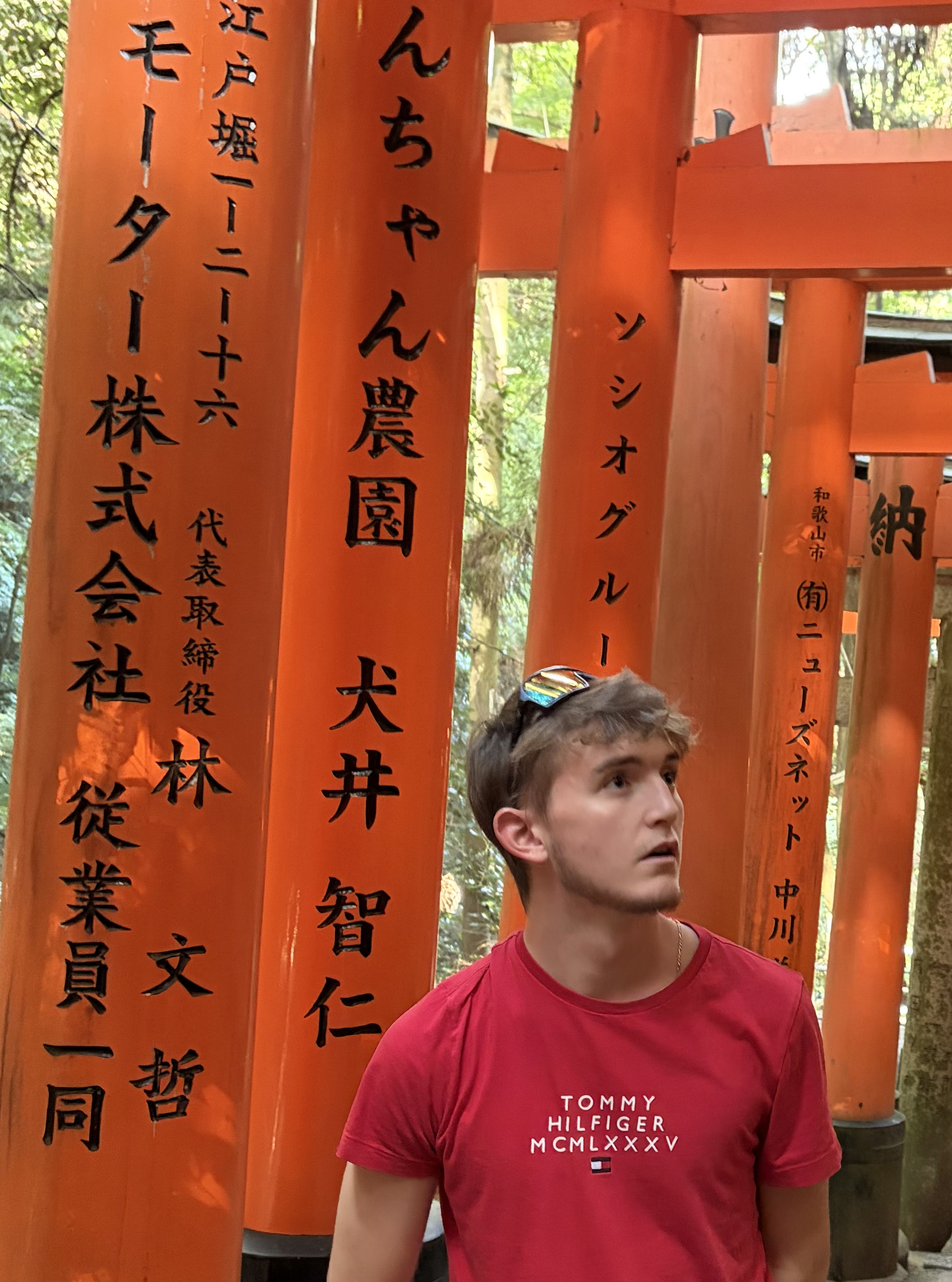
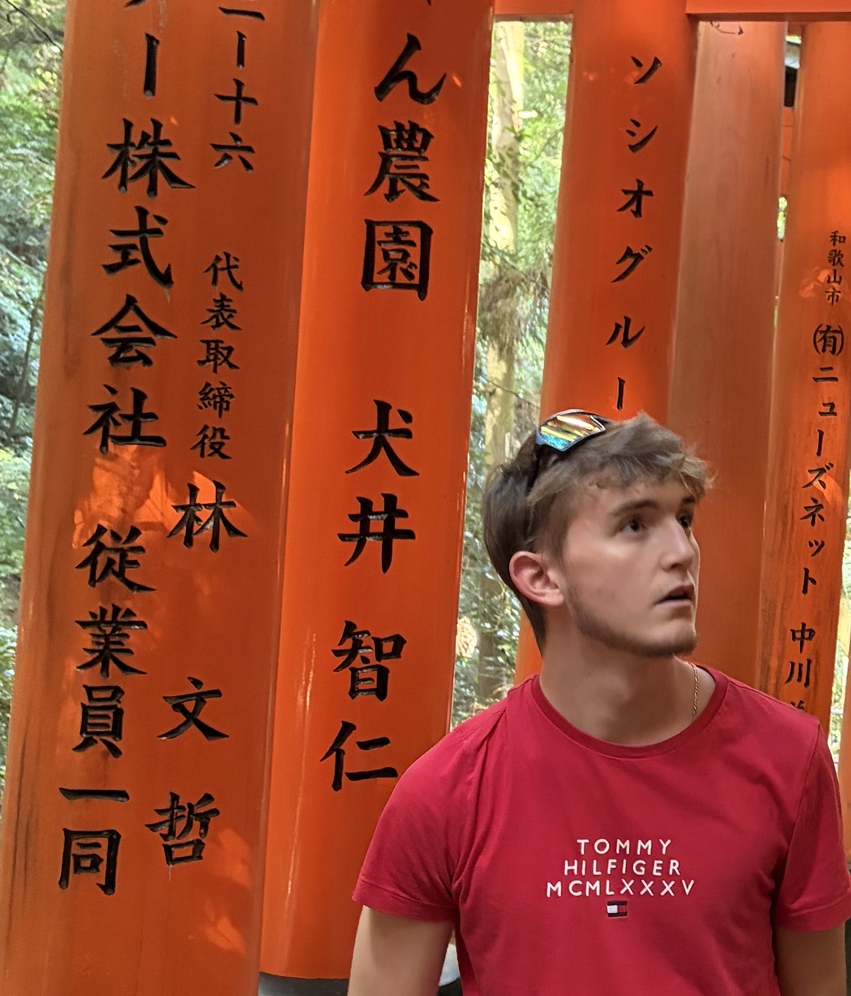
better scroll on macbook and change PDP

diff --git a/js/showroom.js b/js/showroom.js
@@ -393,7 +393,7 @@ const nearestStep = (y) => tops.reduce((best, t, k) => (Math.abs(t - y) < Math.a
 const inShowroom = (y = scroller.y()) => y < tops[LAST] - 2;
 
 // Pagination à la molette  : un cran = une étape, verrouillé pendant l'animation
-const pager = { locked: false, timer: null, hAccum: 0 };
+const pager = { locked: false, timer: null, hAccum: 0, hLocked: false, hTimer: null, hLast: 0, hFiredAt: 0 };
 const goStep = (k) => {
   k = clamp(k, 0, LAST);
   pager.locked = true;
@@ -413,10 +413,19 @@ window.addEventListener('wheel', (e) => {
   const horizontal = Math.abs(e.deltaX) > Math.abs(e.deltaY) * 1.2;
 
   // Glissement horizontal au trackpad = changer de projet (carrousel ou spirale)
-  if (horizontal && inShowroom(y) && step !== 1) {
+  if (horizontal && inShowroom(y)) {
     e.preventDefault(); e.stopImmediatePropagation();
+    // Un swipe = un seul projet : on ignore la suite du geste (et l'inertie macOS)
+    // jusqu'à ce que les événements wheel cessent pendant 180 ms…
+    const mag = Math.abs(e.deltaX), now = performance.now();
+    clearTimeout(pager.hTimer);
+    pager.hTimer = setTimeout(() => { pager.hLocked = false; pager.hAccum = 0; pager.hLast = 0; }, 180);
+    // …ou qu'un nouveau swipe démarre : l'inertie ne fait que décroître, un nouveau geste fait remonter le delta
+    if (pager.hLocked && now - pager.hFiredAt > 200 && mag > 10 && mag > pager.hLast * 1.6) { pager.hLocked = false; pager.hAccum = 0; }
+    pager.hLast = mag;
+    if (pager.hLocked) return;
     pager.hAccum += e.deltaX;
-    if (Math.abs(pager.hAccum) > 60) { pager.hAccum > 0 ? carousel.next() : carousel.prev(); pager.hAccum = 0; }
+    if (Math.abs(pager.hAccum) > 30) { pager.hAccum > 0 ? carousel.next() : carousel.prev(); pager.hAccum = 0; pager.hLocked = true; pager.hFiredAt = now; }
     return;
   }
   // Molette verticale dans le showroom (ou en remontant tout en haut de la grille) = étape suivante / précédente
@@ -601,7 +610,7 @@ window.addEventListener('pointermove', (e) => {
   pointer.y = (e.clientY / window.innerHeight) * 2 - 1;
 }, { passive: true });
 
-const drag = { active: false, startX: 0, startY: 0, lastX: 0, lastT: 0, moved: false, axis: 0 };
+const drag = { active: false, startX: 0, startY: 0, lastX: 0, lastT: 0, moved: false, axis: 0, startSlot: 0 };
 const pxPerSlot = () => Math.max(220, window.innerWidth * 0.3);
 
 canvas.addEventListener('pointerdown', (e) => {
@@ -609,6 +618,7 @@ canvas.addEventListener('pointerdown', (e) => {
   drag.active = true; drag.moved = false; drag.axis = 0;
   drag.startX = drag.lastX = e.clientX; drag.startY = e.clientY; drag.lastT = performance.now();
   carousel.velocity = 0;
+  drag.startSlot = Math.round(carousel.target);
 });
 window.addEventListener('pointermove', (e) => {
   if (!drag.active) return;
@@ -621,7 +631,8 @@ window.addEventListener('pointermove', (e) => {
   if (drag.axis !== 1) return;
   const now = performance.now();
   const ds = -dx / pxPerSlot();
-  carousel.pos += ds; carousel.target = carousel.pos;
+  // le doigt ne peut pas entraîner le carrousel au-delà du projet voisin
+  carousel.pos = clamp(carousel.pos + ds, drag.startSlot - 1, drag.startSlot + 1); carousel.target = carousel.pos;
   carousel.velocity = ds / Math.max(1, now - drag.lastT) * 16; // slots par image
   drag.lastX = e.clientX; drag.lastT = now;
 });
@@ -629,8 +640,10 @@ const endDrag = (e) => {
   if (!drag.active) return;
   drag.active = false;
   if (carousel.dragging) {
-    // inertie : on prolonge le geste puis on s'aimante sur le projet le plus proche
-    carousel.target = Math.round(carousel.pos + clamp(carousel.velocity * 10, -2.5, 2.5));
+    // un glissement = un projet max : un geste vif ou assez long passe au voisin, sinon on revient
+    const moved = carousel.pos - drag.startSlot;
+    const dir = Math.abs(carousel.velocity) > 0.02 ? Math.sign(carousel.velocity) : Math.abs(moved) > 0.3 ? Math.sign(moved) : 0;
+    carousel.target = drag.startSlot + dir;
     carousel.dragging = false;
     lenis?.start();
     stageEl.classList.remove('is-grabbing');

diff --git a/index.html b/index.html
@@ -12,7 +12,7 @@
   <!-- Open Graph (LinkedIn, Facebook) -->
   <meta property="og:type"        content="website" />
   <meta property="og:url"         content="https://raphpicard.github.io/" />
-  <meta property="og:title"       content="Raphaël Picard — Software & Big Data Engineer" />
+  <meta property="og:title"       content="Raphaël Picard - Software & Big Data Engineer" />
   <meta property="og:description" content="Portfolio de Raphaël Picard, étudiant en Software & Big Data Engineering. Découvrez mes projets, compétences et expériences." />
   <meta property="og:image"       content="https://raphpicard.github.io/assets/favicon.svg" />
 
@@ -22,7 +22,7 @@
   <meta name="twitter:description" content="Portfolio de Raphaël Picard, étudiant en Software & Big Data Engineering. Découvrez mes projets, compétences et expériences." />
   <meta name="twitter:image"       content="https://raphpicard.github.io/assets/PDP.jpg" /> -->
 
-  <link rel="icon" href="assets/favicon.svg" type="image/svg+xml" /> <!-- Favicon SVG : vectoriel, net à toutes les tailles (préféré aux .ico) -->
+  <link rel="icon" href="assets/fav.jpg" type="image/svg+xml" /> <!-- Favicon SVG : vectoriel, net à toutes les tailles (préféré aux .ico) -->
 
   <!-- preconnect : établit la connexion DNS+TCP en avance pour les serveurs Google Fonts -->
   <link rel="preconnect" href="https://fonts.googleapis.com" />
@@ -74,7 +74,7 @@
         <div>
           <!-- reveal : classe déclenchant l'animation d'entrée (opacity + translateY) via IntersectionObserver -->
           <!-- data-en/data-fr : traduit le badge de disponibilité selon la langue -->
-          <div class="hero-label reveal" data-en="Available · Starting February 1, 2028" data-fr="Disponible · À partir du 1er février 2028">Available · Starting February 1, 2028</div>
+          <div class="hero-label reveal" data-en="Available to start on February 1, 2028" data-fr="Disponible · À partir du 1er février 2028">Available to start on February 1, 2028</div>
           <!-- reveal-delay-1 : délai de 0.1s pour créer un effet de cascade avec les éléments voisins -->
           <h1 class="hero-name reveal reveal-delay-1">Raphaël<br><em>Picard</em></h1>
           
